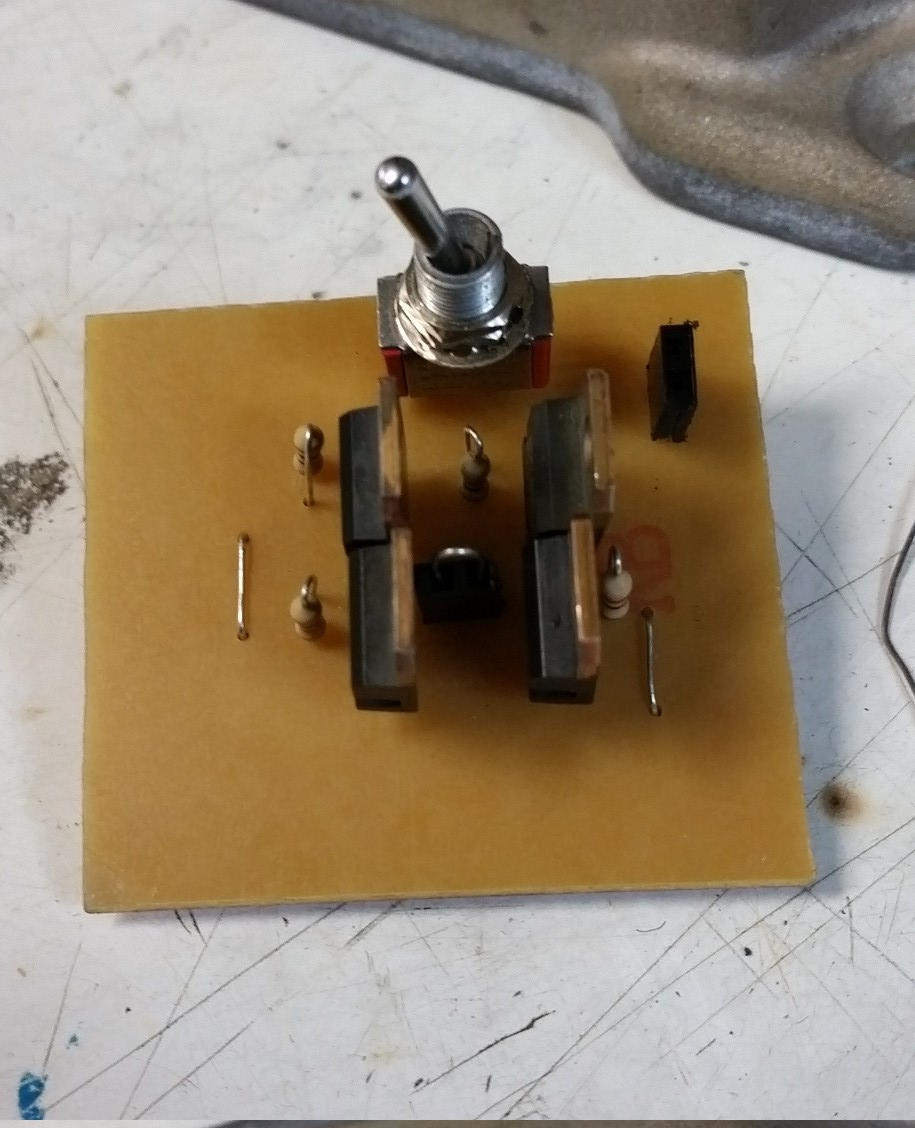
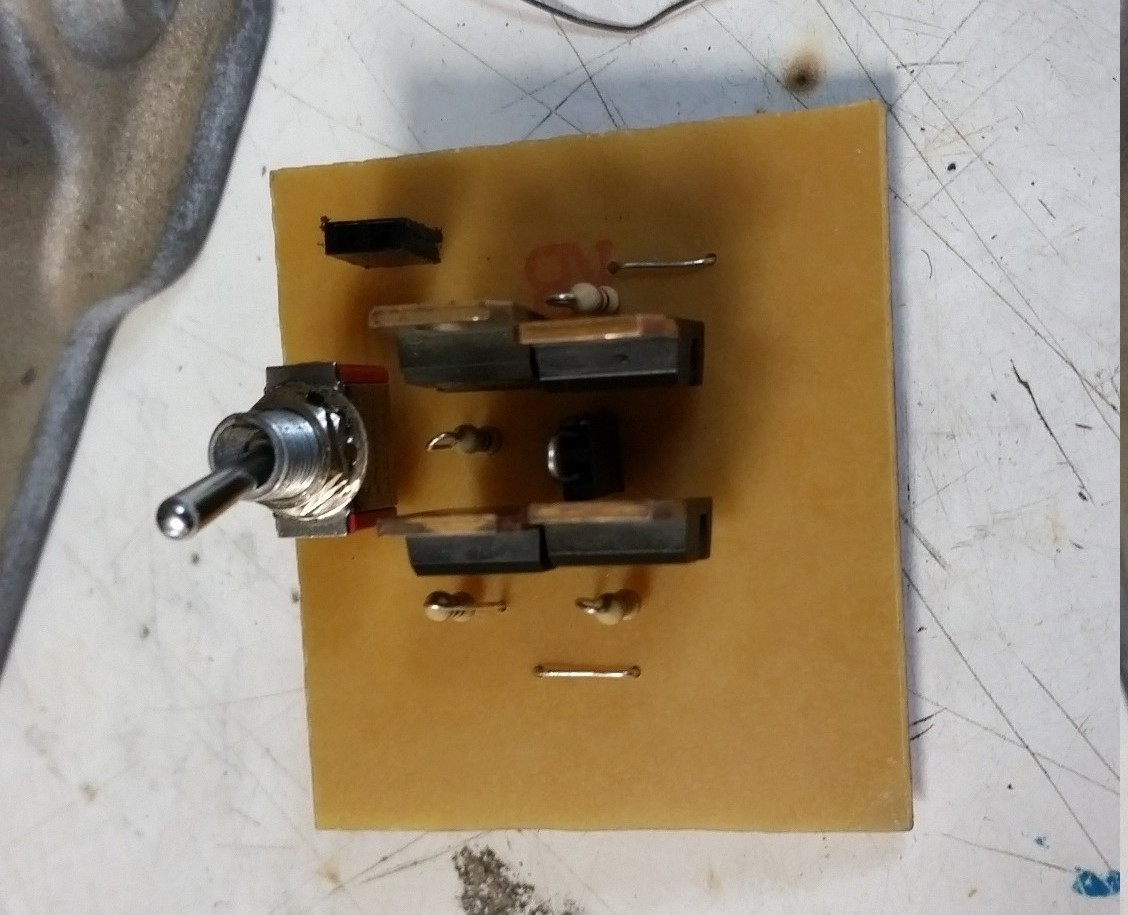
Further improvements

diff --git a/Simulation.tex b/Simulation.tex
@@ -1,21 +1,24 @@
 \section{\textbf{Simulation}}\label{sec:3}
 
-\begin{figure}[t]
-% \centering
-% \begin{subfigure}[b]{0.4\textwidth}
+\begin{figure*}
+\centering
+	\begin{subfigure}{.45\textwidth}
     \centering
-    \includegraphics[height=.5\textwidth]{img/schem_pspice.png}
+    \includegraphics[width=\linewidth]{img/schem_pspice.png}
     \caption{Schematic on PSpice program.}\label{fig:schem_pspice}%
-% \end{subfigure}\hfill
-\end{figure}
+    \end{subfigure}    
+    \begin{subfigure}{.45\textwidth}
+    ~
+    \centering
+    \includegraphics[width=\linewidth, height=6.4cm]{img/plot.png}
+    \caption{Current x Time} \label{fig:plot_ponteh}
+	\end{subfigure}
+	\caption{Simulation analysis.}
+	
+\end{figure*}
 
     The circuit design was simulated using PSpice software distributed by OrCAD. The circuit shown in Figure~\ref{fig:schem} was reproduced in PSpice (see Figure \ref{fig:schem_pspice}). The software does not support the transistor model used in the actual implementation, the TIP31C, instead the Q2N2222 was used to replace it given they are very similar, only the maximum supported values for voltages change. The value of all transistors base resistances was set to $100\:\Omega$. The DC motor simplified equivalent circuit is an inductor and a resistor~\cite{CHAPMAN}. The U8 and U7 times were set to $500\; ms$.
 \todo{TALK ABOUT THE MOTOR ITSELF}
-	Finally a transient analysis over the circuit was made and the current flowing through the motor is plotted in Figure~\ref{fig:plot_ponteh}. The simulated circuit behavior is exactly the expected, when Q1 and Q3 are activated the current flows... \todo{{FIND THE ROTATION DIRECTION FOR EACH TRANSISTOR PAIR}}
+	Finally a transient analysis over the circuit was made and the current flowing through the motor is plotted in Figure~\ref{fig:plot_ponteh}. The simulated circuit behavior is exactly the expected, when Q1 and Q2 are activated the current flows in the positive direction, in opposition to Q3 and Q4 active which results in a negative current flow.
 	
-	
-\begin{figure}
-\centering
-\includegraphics[height=.5\textwidth]{img/plot.png}
-\caption{Current x Time} \label{fig:plot_ponteh}
-\end{figure}	
+

diff --git a/Experiments.tex b/Experiments.tex
@@ -2,6 +2,6 @@
 
 	First of all the protoboard circuit \todo{ref protoboard fig} was tested using a multimeter to ensure it's proper functionality. With Q1 and Q2 activated the voltage measured across the motor was $3.8\;V$ \todo{review values}, for future analysis this situation (Q1 and Q2 active) will be called S1. With Q3 and Q4 activated the voltage measured was $-2.9\;V$, this will be the S2 situation. The polarity inversion was accomplished, however the magnitude for both cases which was expected to be equal was in fact different. A slightly tension drop occurred when the current flew backwards \todo{explain why. idk why}. \todo{ADDITIONAL: MEASURE MOTOR SPIN SPEED}
 	
-	Despite the previous mentioned discrepancy the circuit performed as intentioned therefore the motor was plugged into the circuit. For S1 the motor spun in the \todo{verify if clockwise or counterclockwise}. On the other hand for S2 it spun \todo{the opposite} slightly slower, as a result of the voltage drop previous mentioned.
+	Despite the previous mentioned discrepancy the circuit performed as intentioned therefore the motor was plugged into the circuit. For S1 the motor spun in the counterclockwise direction. On the other hand for S2 it spun clockwise slightly slower, as a result of the voltage drop previous mentioned.
 	
 	Finally with the printed circuit board in hands the tension across the output pins were once again measured with a voltmeter. In case S1 the voltage showed up to be \todo{MEASURE THIS!!!}. Though for S2 the tension measured was \todo{measure}. As the PCB performed exactly as the protoboard circuit the motor was connected and the final configuration was achieved. \todo{measure motor speed and direction and insert here}

diff --git a/Manufacturing.tex b/Manufacturing.tex
@@ -1,6 +1,29 @@
 \section{\textbf{Manufacturing}}\label{sec:4}
-    \todo{Show the fritzing environment, the schematics, board design and board manufacturing}
-	As the simulation (see Section~\ref{sec:3}) proved that the designed circuit works as intended the physical components were assembled in a protoboard for further testing and validation before the final manufacturing \todo{complete with relevant information about final board}. Figure\todo{INSERT AND REF PROPOER PROTOBOARD FIGURE} shows the circuit properly assembled. This circuit's evaluation will be further discussed in Section~\ref{sec:5}.
+
+	As the simulation (see Section~\ref{sec:3}) proved that the designed circuit works as intended the physical components were assembled in a protoboard for further testing and validation before the final manufacturing \todo{complete with relevant information about final board}. Figure~\ref{fig:proto_h} shows the circuit properly assembled. This circuit's evaluation will be further discussed in Section~\ref{sec:5}.
 	
 	\todo{TALK ABOUT CIRCUIT PRINTING}
 	
+	
+\begin{figure}
+\centering
+
+\begin{subfigure}{.45\columnwidth}
+\includegraphics[height=4cm]{img/compontentes4.jpg}
+\caption{Components in the PCB.}
+\label{fig:pcb_top}
+\end{subfigure}
+\begin{subfigure}{.45\columnwidth}
+\centering
+\includegraphics[height=4cm]{img/solda_ja_saiu_da_jaula.jpg}
+\caption{Connections in the PCB.}
+\label{fig:pcb_bot}
+\end{subfigure}
+\begin{subfigure}{\columnwidth}
+\centering
+\includegraphics[height=4cm]{img/h_bridge_proto_close.jpg}
+\caption{Circuit assembled on a protoboard.}
+\label{fig:proto_h}
+\end{subfigure}
+\caption{Circuit assembling.}
+\end{figure}

diff --git a/Introduction.tex b/Introduction.tex
@@ -3,7 +3,7 @@
 
 	H bridges (see Figure~\ref{fig:bridge}) are simple electronic circuits used to enable a voltage to be applied across a motor in either direction. Despite it's simplicity H bridges might be used to accomplish more challenging tasks, such as stabilizing distributed energy sources~\cite{H-POWER-QUALITY} and improving power quality in electric vehicles~\cite{H-FILTERING}.
 
-\begin{figure*}[t]
+\begin{figure}[h]
 \centering
 % \begin{subfigure}[b]{0.4\textwidth}
 	\centering%
@@ -11,5 +11,5 @@
 	\caption[caption H Bridge]{H Bridge figure borrowed from wikipedia\protect\footnotemark.}
     \label{fig:bridge}%
 % \end{subfigure}\hfill
-\end{figure*}
+\end{figure}
 \footnotetext{\url{https://en.wikipedia.org/wiki/H_bridge}}

diff --git a/ce2.tex b/ce2.tex
@@ -72,7 +72,7 @@
 
     \section{Acknowledgments} % (fold)
     \label{sec:acknowledgments}
-        The authors would like to thank the members of the laboratory LARA by give in space, time and tips also borrowing the milling machine. An especial thanks to Miguel Eduardo and Breno Ferreira, both PhD candidates at LARA, to guiding the authors through soldering and printing skills.
+        The authors would like to thank the members of the laboratory LARA by given space, time and tips in addition to borrowing the milling machine. An especial thanks to Miguel Eduardo and Breno Ferreira, both PhD candidates at LARA, for guiding the authors through soldering and printing skills.
     % section acknowledgements (end)
     
     %\nocite{*}
